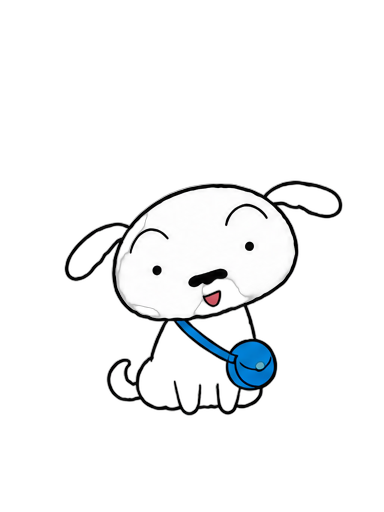
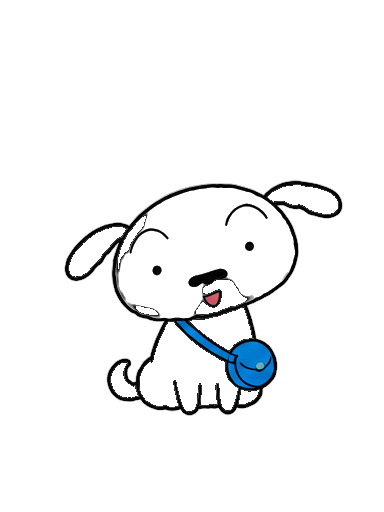
흰둥이 몸통 투명 영역을 흰색으로 수정 (#2)
* 기도회 찬양 가사/순서를 악보 기준으로 수정

- 무너짐 가운데서: 영원히 2회로 수정
- 나를 세상의 빛으로: 악보 순서 반영, 키업(D→E), 예배합니다 구간 합침
- 당신이 지쳐서: 키 F, 가사 오타 수정, 악보 순서 반영

Claude-Session: https://claude.ai/code/session_01Rg1NS3g3gmGBaLyZFknh4V

* 흰둥이 몸통 투명 영역을 흰색으로 채우기

Claude-Session: https://claude.ai/code/session_01Rg1NS3g3gmGBaLyZFknh4V

---------

diff --git a/src/components/event-art.tsx b/src/components/event-art.tsx
@@ -2,7 +2,7 @@ import type { ReactNode } from "react";
 import type { CharacterKey } from "@/data/groups";
 
 export const characterPngs: Record<CharacterKey, string> = {
-  shiro: "/characters/shiro.png?v=3",
+  shiro: "/characters/shiro.png?v=4",
   himawari: "/characters/himawari.png?v=3",
   nene: "/characters/yuri.png?v=3",
   bo: "/characters/maenggu.png?v=3",
